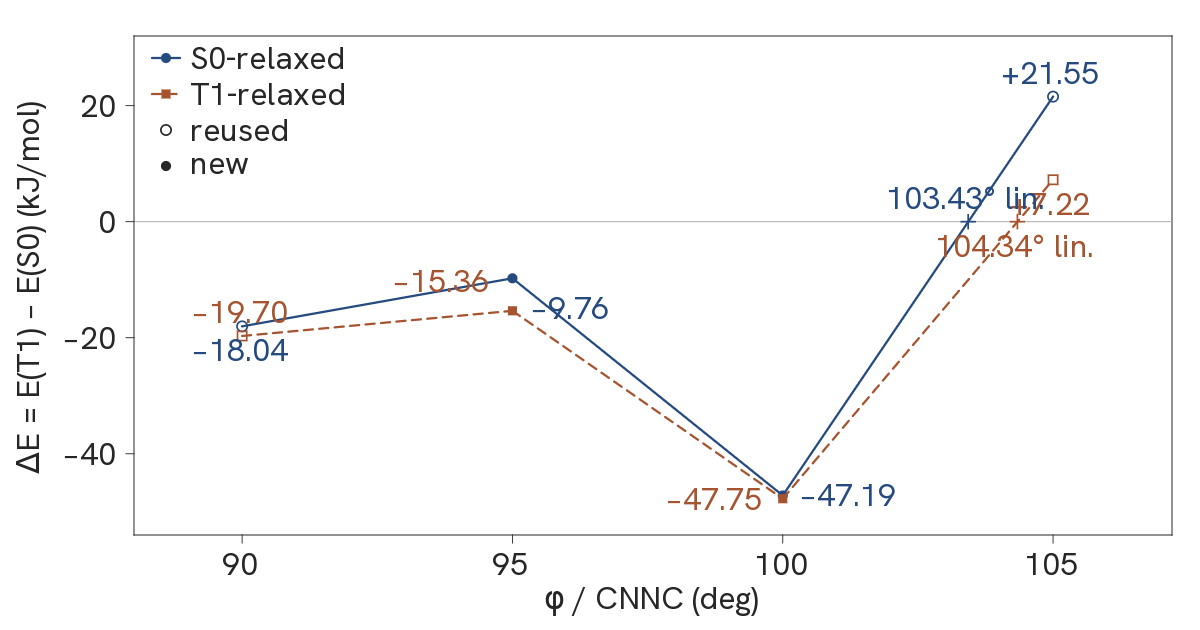
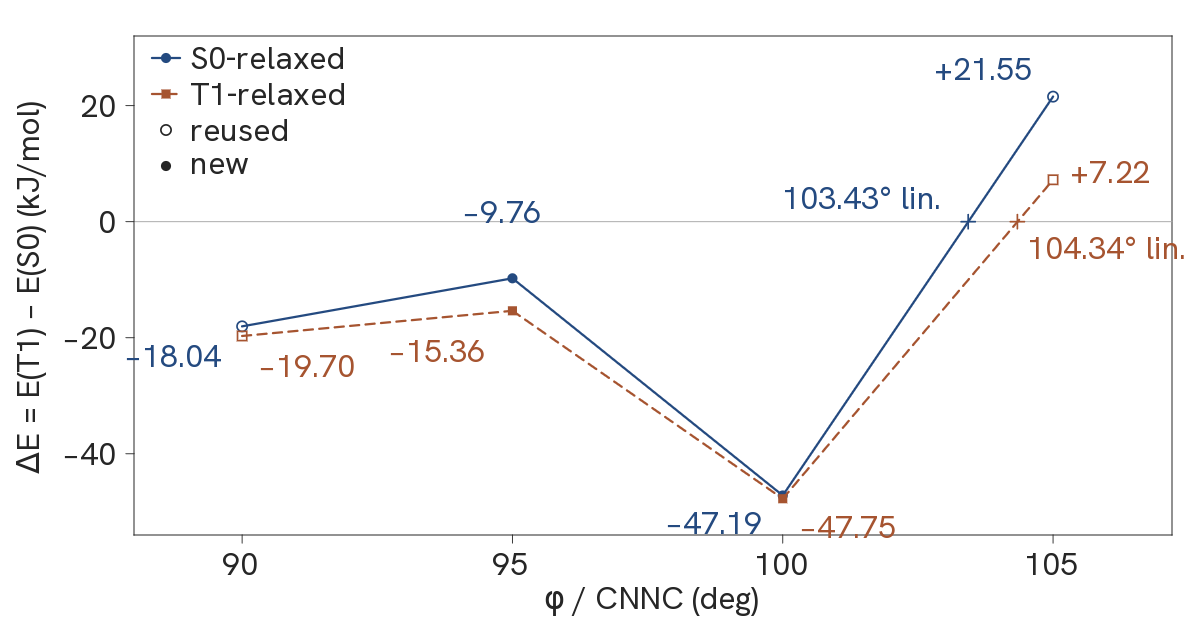
Apply da Vinci Figure 1 label offsets
Point and interpolant labels follow the lab regen (95° S0 above zero,
T1 below-left; lin. marks right/bottom and left/top). Published PNG
stays on the post-slug path; embed and og-image already point there.

diff --git a/research/hillel-m4-sft-dense-bracket/analysis/make_deltaE_figure.py b/research/hillel-m4-sft-dense-bracket/analysis/make_deltaE_figure.py
@@ -791,18 +791,19 @@ def render_plot(points: dict, font: Font) -> np.ndarray:
                 square(rgb, X(phi), Y(de), 4.6, color, fill=not reused, stroke=1.8)
 
     # Point labels from points.json, 2 decimals, series color. All eight.
+    # Offsets are da Vinci's regen (key, φ, ΔE, dx, dy, align).
     label_off = {
         "s0_relaxed": {
-            90: (0, 24, "center"),
-            95: (18, 30, "left"),
-            100: (16, 0, "left"),
-            105: (0, -24, "center"),
+            90: (-16, 30, "right"),
+            95: (-8, -66, "center"),
+            100: (-16, 28, "right"),
+            105: (-16, -28, "right"),
         },
         "t1_relaxed": {
-            90: (0, -24, "center"),
-            95: (-18, -30, "right"),
-            100: (-16, 0, "right"),
-            105: (0, 24, "center"),
+            90: (16, 30, "left"),
+            95: (-22, 40, "right"),
+            100: (16, 28, "left"),
+            105: (18, -8, "left"),
         },
     }
     for fam in FAMILY_ORDER:
@@ -824,13 +825,13 @@ def render_plot(points: dict, font: Font) -> np.ndarray:
     plus(rgb, X(t1_xc), y0, 7.0, SERIES_T1, 1.6)
     text(
         rgb, font, f"{s0_xc:.2f}\u00b0 lin.",
-        X(s0_xc), y0 - 12,
-        font_px, SERIES_S0, align="center", valign="bottom",
+        X(s0_xc) - 22, y0 - 12,
+        font_px, SERIES_S0, align="right", valign="bottom",
     )
     text(
         rgb, font, f"{t1_xc:.2f}\u00b0 lin.",
-        X(t1_xc), y0 + 12,
-        font_px, SERIES_T1, align="center", valign="top",
+        X(t1_xc) + 10, y0 + 14,
+        font_px, SERIES_T1, align="left", valign="top",
     )
 
     # Legend in the empty upper-left of the data box.
